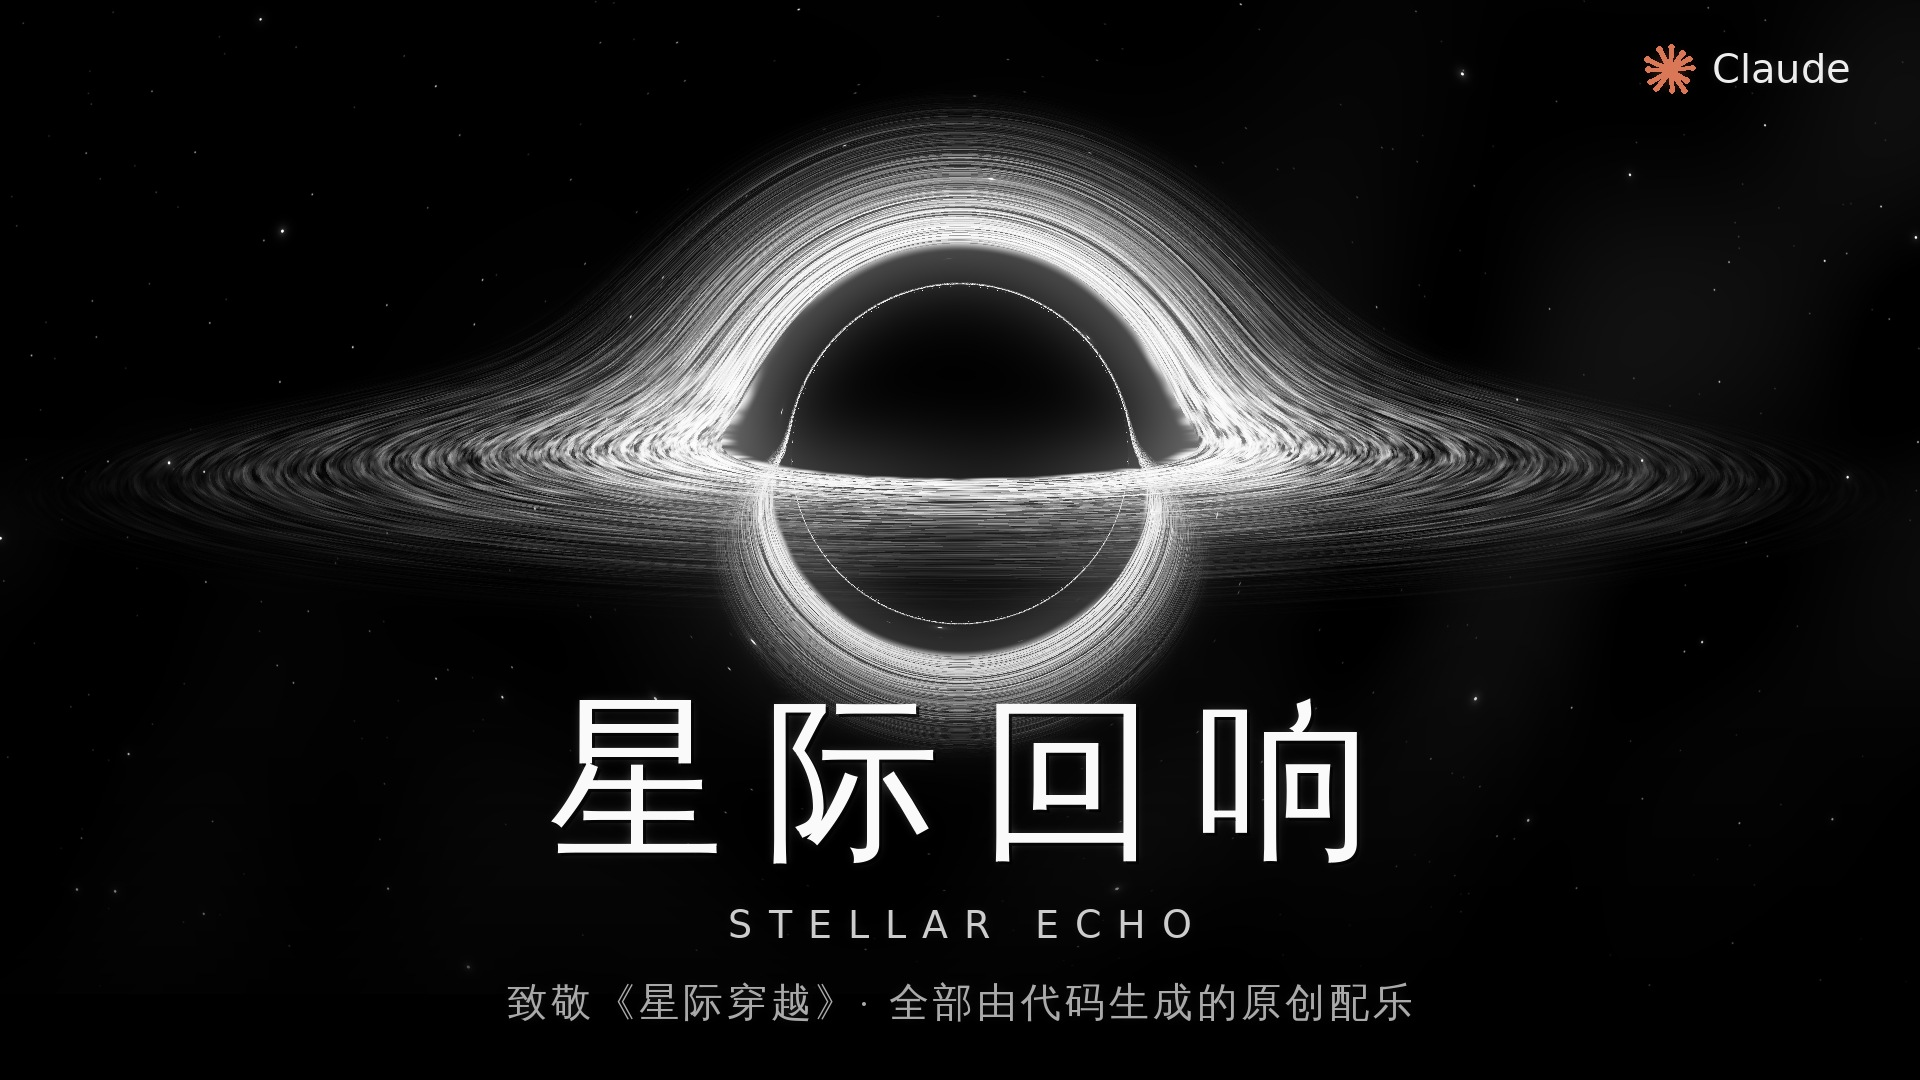
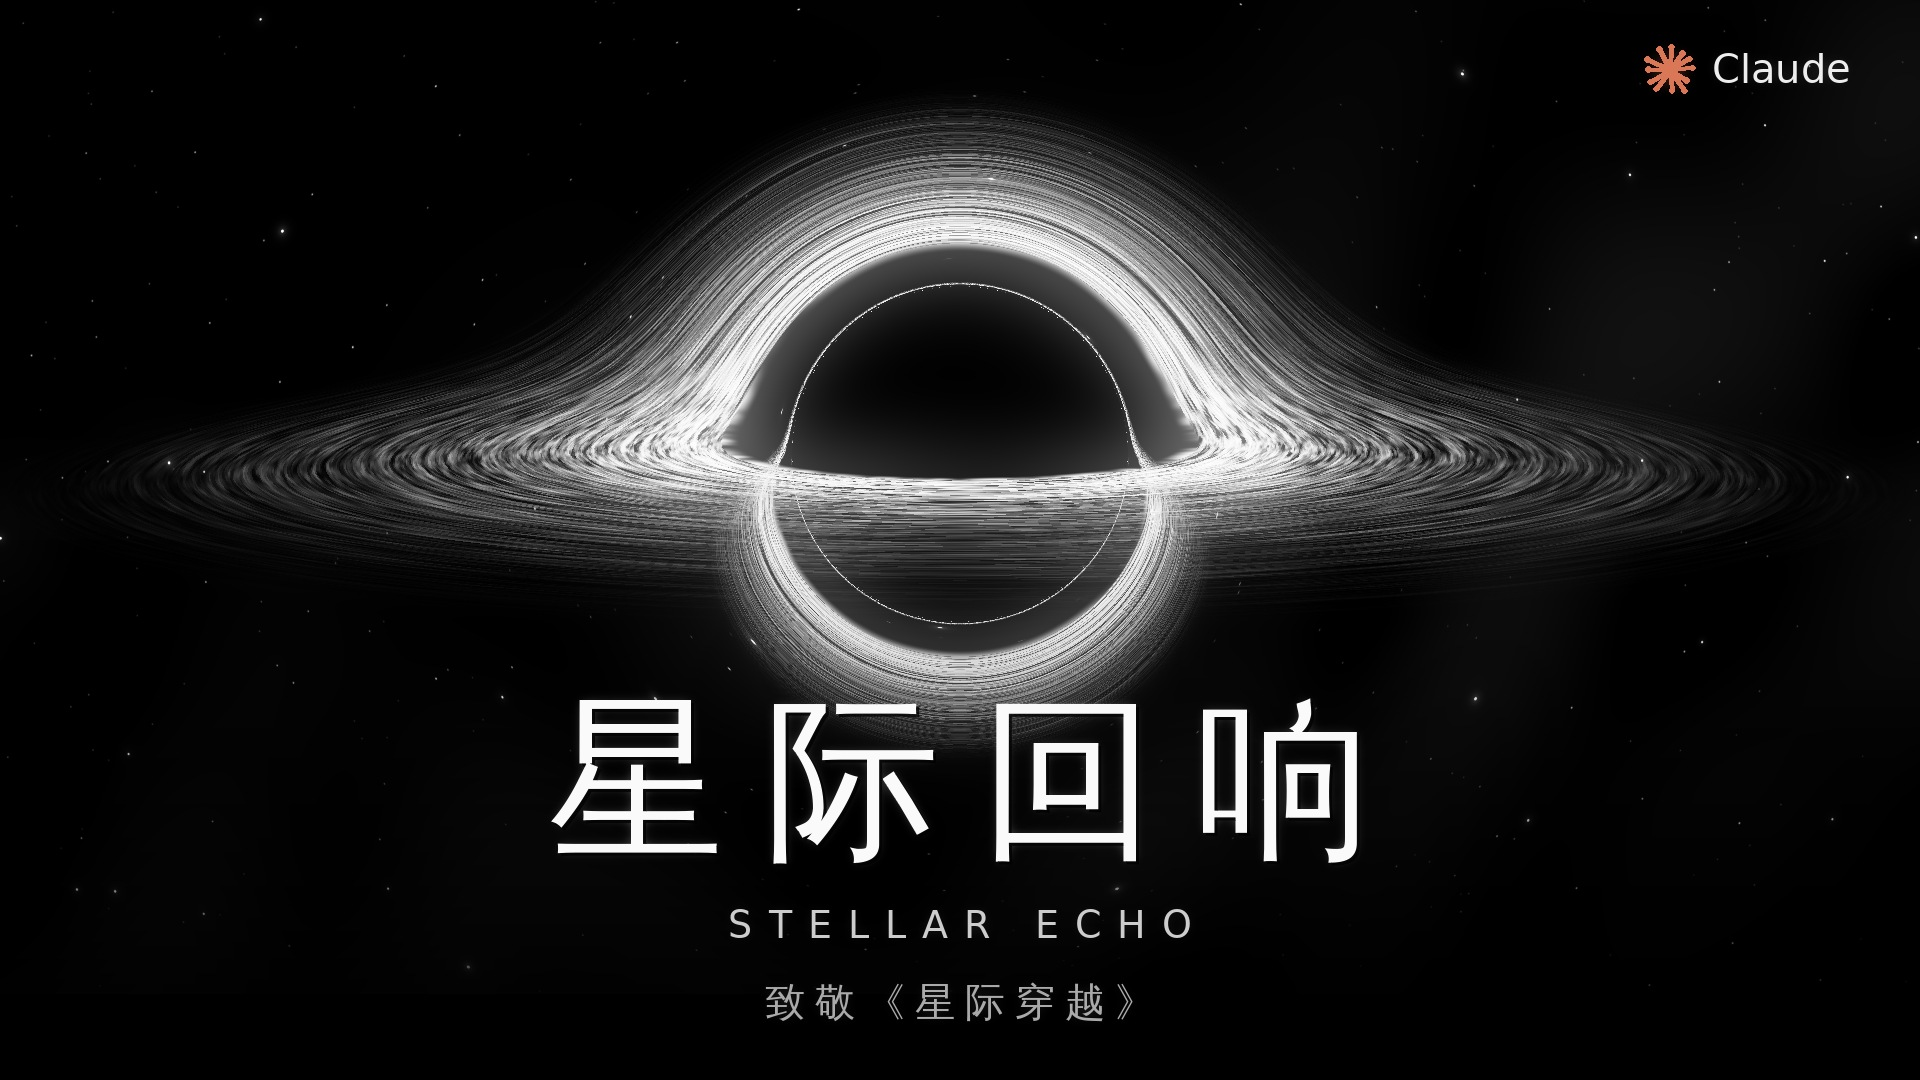
Bilibili materials: drop the 'generated by code' wording
Covers now read only 致敬《星际穿越》; titles, description and post text
no longer claim everything is code-generated. AI disclosure is kept.

Claude-Session: https://claude.ai/code/session_01Vdfstb7xo7uTsT7ZX96FV9

Changed region(s): [[0.25, 0.9167, 0.75, 0.9472]]

diff --git a/bilibili/make_cover.py b/bilibili/make_cover.py
@@ -89,7 +89,7 @@ def compose(img, w, h):
     en = ImageFont.truetype(EN, int(38 * s))
     spaced(dr, "STELLAR ECHO", en, w / 2, h * 0.835, int(16 * s), (205, 205, 205, 255))
     tag = ImageFont.truetype(ZH, int(40 * s))
-    spaced(dr, "致敬《星际穿越》· 全部由代码生成的原创配乐", tag, w / 2, h * 0.905, int(4 * s), (170, 170, 170, 255))
+    spaced(dr, "致敬《星际穿越》", tag, w / 2, h * 0.905, int(10 * s), (170, 170, 170, 255))
     claude_mark(dr, w - 250 * s, 70 * s, 26 * s, int(40 * s))   # 右上角，避开 B 站右下角时长角标
     glow = layer.filter(ImageFilter.GaussianBlur(6 * s))
     out = canvas.convert("RGBA")

diff --git a/bilibili/发布文案.md b/bilibili/发布文案.md
@@ -12,10 +12,10 @@
 
 ## 标题（任选一个，均不超过 80 字）
 
-1. 【原创】星际回响｜致敬《星际穿越》，128 秒黑洞配乐，从旋律到画面全部由代码生成
-2. 用代码写了一首"星际穿越"风格的曲子，还算出了一个会随音乐呼吸的黑洞
+1. 【原创】星际回响｜致敬《星际穿越》的 128 秒黑洞配乐
+2. 写了一首"星际穿越"风格的曲子，还配了一个会随音乐呼吸的黑洞
 3. 【AI 原创】星际回响：管风琴 × 钟表滴答 × 卡冈图雅黑洞，128 秒沉浸
-4. 没有乐器、没有采样，用 Python 合成的《星际回响》，献给每一个喜欢《星际穿越》的人
+4. 没有乐器、没有采样的《星际回响》，献给每一个喜欢《星际穿越》的人
 
 推荐 **1**（信息最全）或 **2**（好奇心最强，适合推荐流）。
 
@@ -24,7 +24,7 @@
 ## 分区
 
 **音乐区 → 原创音乐**。
-备选：知识区 → 科学科普（如果想侧重"代码模拟黑洞"）。
+备选：知识区 → 科学科普（如果想侧重"模拟真实黑洞"）。
 
 ## 类型
 
@@ -51,7 +51,7 @@ B 站要求 AI 生成内容主动标注；不标注可能被限流或下架。
 🎵《星际回响 Stellar Echo》—— 一首致敬《星际穿越》的 128 秒原创纯音乐
 
 这首曲子没有用任何乐器、采样或音色库：
-管风琴、钢琴、钢片琴、弦乐、低鼓，以及贯穿全曲的钟表滴答声，都是用 Python 从正弦波一点点合成的。
+管风琴、钢琴、钢片琴、弦乐、低鼓，以及贯穿全曲的钟表滴答声，都是从最基础的正弦波一点点合成的。
 主旋律为原创，只借鉴了《星际穿越》配乐的手法——管风琴铺底、重复的琶音、层层推进的情绪。
 
 🌌 画面里的黑洞参考了电影中的「卡冈图雅」。
@@ -68,7 +68,7 @@ B 站要求 AI 生成内容主动标注；不标注可能被限流或下架。
 01:52 尾声
 
 🛠 制作
-音乐与画面由 Claude（Anthropic 的 AI）编写代码生成，策划与监制：UP 主
+音乐与画面由 Claude（Anthropic 的 AI）协助创作，策划与监制：UP 主
 全部源代码已开源：https://github.com/zhaoyao75/colab-code
 
 ⚠ 说明
@@ -96,7 +96,7 @@ B 站要求 AI 生成内容主动标注；不标注可能被限流或下架。
 ## 动态文案（同步发到动态）
 
 ```
-花了一下午，用代码"写"了一首星际穿越风格的曲子，又算了一个会跟着音乐呼吸的黑洞 🌌
+花了一下午，做了一首星际穿越风格的曲子，又配了一个会跟着音乐呼吸的黑洞 🌌
 没有乐器、没有采样，每一个音都是合成出来的。
 《星际回响》，128 秒，戴上耳机听 👇
 ```
